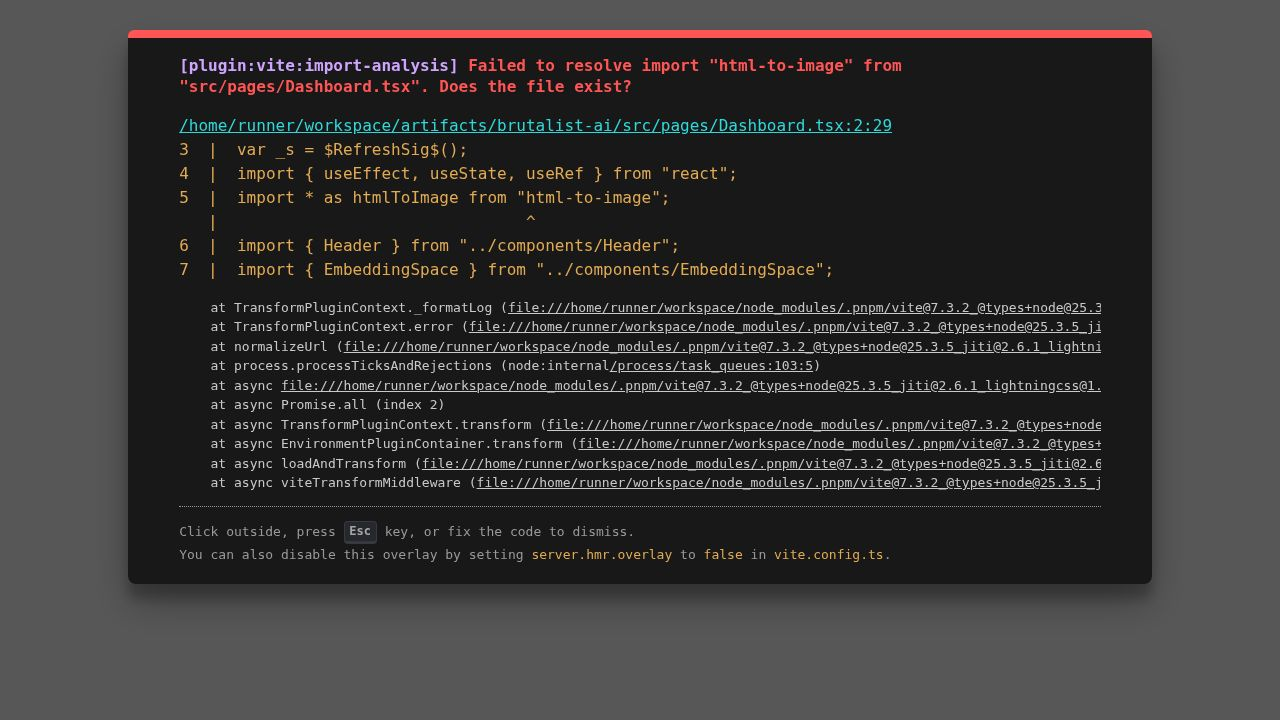
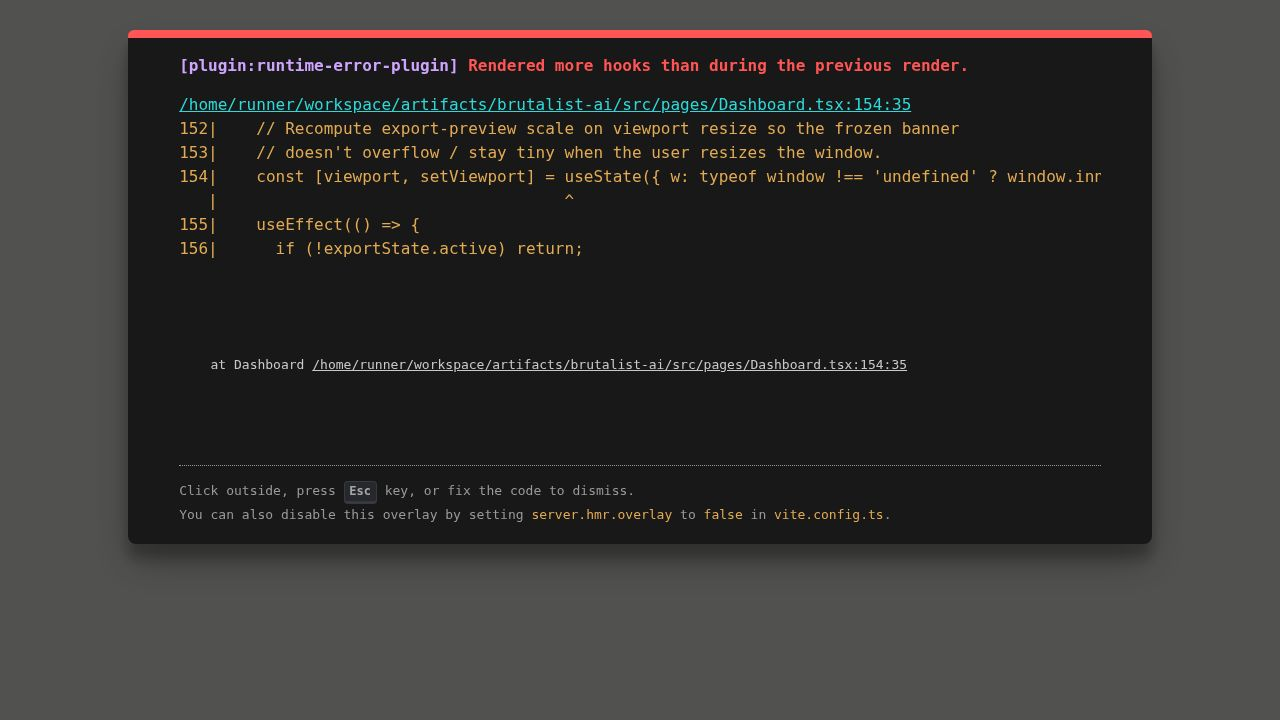
Build brutalist AI × PostHog dashboard
- New artifact `brutalist-ai` (React + Vite, single page) at `/`.
- Visual contract: cream #eeefe9 bg, 3px solid black borders, IBM Plex Mono,
  hard 4px-offset shadows everywhere, no rounded corners, no blur.
- Deterministic from SHA-256(input) → Mulberry32 PRNG (now exposes
  getState/setState for snapshot/restore). Hash slices are literally
  consumed: 0..8 master seed, 8..10 PostHog accent (red/blue/yellow),
  10..14 "you" position, 14..59 nine 5-hex-char per-panel seeds. Each
  panel pulls its own slice via `derivePrng(seedData, PanelSlot.X)` so
  streams stay isolated and reproducible per seed.
- EMBEDDING SPACE centerpiece: ~40 drifting labeled dots, accent "you"
  dot, cursor-attractive velocity-based spring with damping (slight
  overshoot per spec) and per-dot stiffness/lag, hover shows
  3-nearest-neighbor black lines, occasional snap-jumps, faint axis
  ticks every 10%.
- Supporting panels: WEIGHTS (12 floats with deterministic flicker),
  TOKEN STREAM (char-grams of input, blinking caret, sliding window so
  loops are invisible), LOSS (▁▂▃▄▅▆▇ blocks, no space char),
  PROBABILITIES (5 █/░ bars jittering ~500ms).
- Header: SEED hash chip + form-based input that ONLY commits/rehashes
  on Enter or blur (typing alone never rehashes). EXPORT BANNER button.
- Keyboard: `f` fullscreen, `h` hide chrome.
- Export modal: LinkedIn 1584×396, X 1500×500, Custom presets. Freezes
  animation; → and ← are TRUE bidirectional single-frame stepping —
[…]

diff --git a/artifacts/brutalist-ai/src/pages/Dashboard.tsx b/artifacts/brutalist-ai/src/pages/Dashboard.tsx
@@ -149,16 +149,29 @@ export default function Dashboard() {
 
   const paused = exportState.active;
 
+  // Recompute export-preview scale on viewport resize so the frozen banner
+  // doesn't overflow / stay tiny when the user resizes the window.
+  const [viewport, setViewport] = useState({ w: typeof window !== 'undefined' ? window.innerWidth : 1280, h: typeof window !== 'undefined' ? window.innerHeight : 720 });
+  useEffect(() => {
+    if (!exportState.active) return;
+    const onResize = () => setViewport({ w: window.innerWidth, h: window.innerHeight });
+    onResize();
+    window.addEventListener('resize', onResize);
+    return () => window.removeEventListener('resize', onResize);
+  }, [exportState.active]);
+
   return (
     <div className="min-h-screen bg-cream flex flex-col font-mono relative overflow-hidden">
-      {!hideChrome && !exportState.active && (
+      <div
+        className={`transition-opacity duration-200 ${(!hideChrome && !exportState.active) ? 'opacity-100' : 'opacity-0 pointer-events-none h-0 overflow-hidden'}`}
+      >
         <Header
           seed={seed}
           setSeed={setSeed}
           seedData={seedData}
           onExport={() => setIsModalOpen(true)}
         />
-      )}
+      </div>
 
       <ExportModal
         isOpen={isModalOpen}
@@ -175,7 +188,7 @@ export default function Dashboard() {
               ? {
                   width: exportState.w,
                   height: exportState.h,
-                  transform: `scale(min(1, ${(window.innerWidth - 64) / exportState.w}, ${(window.innerHeight - 120) / exportState.h}))`,
+                  transform: `scale(min(1, ${(viewport.w - 64) / exportState.w}, ${(viewport.h - 120) / exportState.h}))`,
                   transformOrigin: 'center center',
                 }
               : {}
@@ -232,7 +245,9 @@ export default function Dashboard() {
             </div>
           </div>
 
-          {!hideChrome && <Sticker />}
+          <div className={`transition-opacity duration-200 ${hideChrome ? 'opacity-0 pointer-events-none' : 'opacity-100'}`}>
+            <Sticker />
+          </div>
         </div>
       </div>
     </div>